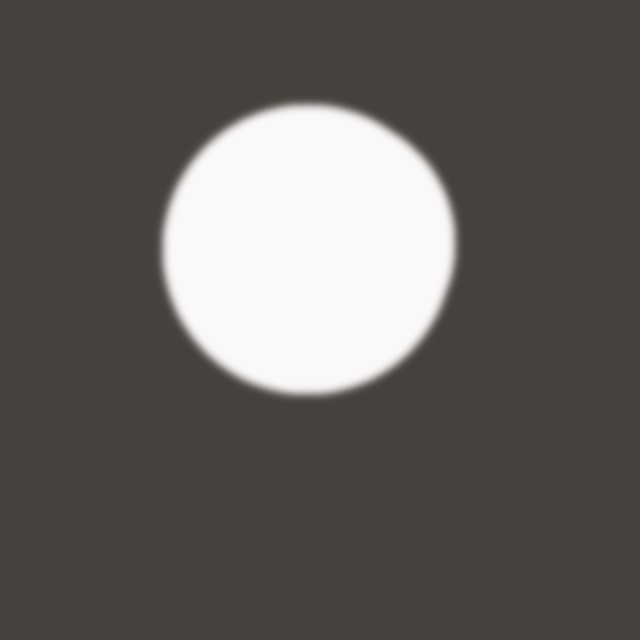
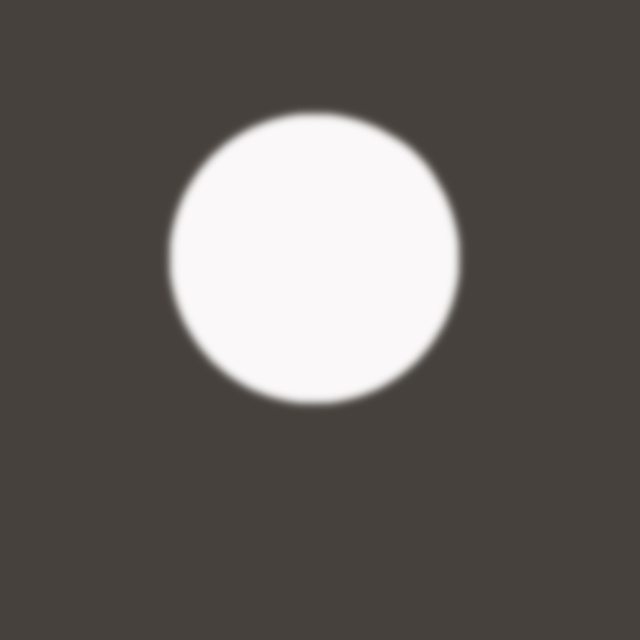
Add dual-layer neural & optical footwear (steel-toe boots) and hand gloves detection and HUD visualization

diff --git a/core/detector.py b/core/detector.py
@@ -342,3 +342,126 @@ class SafetyGearDetector:
         if hat_ratio >= 0.22:
             return True, float(round(min(0.92, 0.50 + hat_ratio * 1.5), 2))
         return False, 0.0
+
+    def evaluate_footwear_presence(
+        self,
+        frame: np.ndarray,
+        person_box: BoundingBox
+    ) -> Tuple[bool, float]:
+        """
+        Evaluates presence of protective safety footwear / steel-toe boots
+        in the lower anatomical ground-plane region (bottom 22% of worker bounding box).
+        Differentiates heavy protective boot leather/sole profile from bare feet/sandals.
+        """
+        h, w, _ = frame.shape
+        x1 = max(0, int(person_box.x1))
+        y1 = max(0, int(person_box.y1))
+        x2 = min(w, int(person_box.x2))
+        y2 = min(h, int(person_box.y2))
+
+        pw = x2 - x1
+        ph = y2 - y1
+        if pw < 10 or ph < 20:
+            return False, 0.0
+
+        fy1 = max(0, y1 + int(0.78 * ph))
+        fy2 = min(h, y2 + int(0.04 * ph))
+        fx1 = max(0, x1 - int(0.06 * pw))
+        fx2 = min(w, x2 + int(0.06 * pw))
+
+        if fx2 <= fx1 or fy2 <= fy1:
+            return False, 0.0
+
+        feet_crop = frame[fy1:fy2, fx1:fx2]
+        if feet_crop.size == 0:
+            return False, 0.0
+
+        total_pixels = feet_crop.shape[0] * feet_crop.shape[1]
+
+        # 1. Bare skin detection in YCrCb (detects bare feet or open sandals)
+        ycrcb = cv2.cvtColor(feet_crop, cv2.COLOR_BGR2YCrCb)
+        mask_skin = cv2.inRange(ycrcb, np.array([0, 133, 77], dtype=np.uint8), np.array([255, 173, 127], dtype=np.uint8))
+        skin_ratio = cv2.countNonZero(mask_skin) / float(total_pixels)
+
+        # 2. Dark heavy boot leather / rubber sole profile
+        hsv = cv2.cvtColor(feet_crop, cv2.COLOR_BGR2HSV)
+        mask_dark = cv2.inRange(hsv, np.array([0, 0, 0], dtype=np.uint8), np.array([180, 255, 95], dtype=np.uint8))
+        dark_ratio = cv2.countNonZero(mask_dark) / float(total_pixels)
+
+        # 3. High-density sole texture and edges (Sobel gradient)
+        gray_feet = cv2.cvtColor(feet_crop, cv2.COLOR_BGR2GRAY)
+        sobel = cv2.Sobel(gray_feet, cv2.CV_64F, 1, 1, ksize=3)
+        edge_energy = float(np.mean(np.abs(sobel)))
+
+        if skin_ratio > 0.18:
+            return False, float(round(skin_ratio, 2))
+
+        has_boots = (dark_ratio >= 0.22 or (dark_ratio >= 0.12 and edge_energy > 12.0))
+        confidence = min(0.92, 0.50 + dark_ratio * 0.8 + min(0.3, edge_energy / 50.0)) if has_boots else 0.20
+        return has_boots, float(round(confidence, 2))
+
+    def evaluate_gloves_presence(
+        self,
+        frame: np.ndarray,
+        person_box: BoundingBox
+    ) -> Tuple[bool, float]:
+        """
+        Evaluates presence of industrial safety hand gloves in the lateral hand regions.
+        Differentiates high-contrast glove materials (nitrile blue, neon yellow, heavy leather)
+        from bare skin tones.
+        """
+        h, w, _ = frame.shape
+        x1 = max(0, int(person_box.x1))
+        y1 = max(0, int(person_box.y1))
+        x2 = min(w, int(person_box.x2))
+        y2 = min(h, int(person_box.y2))
+
+        pw = x2 - x1
+        ph = y2 - y1
+        if pw < 10 or ph < 20:
+            return False, 0.0
+
+        hy1 = max(0, y1 + int(0.35 * ph))
+        hy2 = min(h, y1 + int(0.82 * ph))
+        left_x1 = max(0, x1 - int(0.18 * pw))
+        left_x2 = min(w, x1 + int(0.28 * pw))
+        right_x1 = max(0, x2 - int(0.28 * pw))
+        right_x2 = min(w, x2 + int(0.18 * pw))
+
+        hand_crops = []
+        if left_x2 > left_x1 and hy2 > hy1:
+            lc = frame[hy1:hy2, left_x1:left_x2]
+            if lc.size > 0:
+                hand_crops.append(lc)
+        if right_x2 > right_x1 and hy2 > hy1:
+            rc = frame[hy1:hy2, right_x1:right_x2]
+            if rc.size > 0:
+                hand_crops.append(rc)
+
+        if not hand_crops:
+            return False, 0.0
+
+        skin_ratios = []
+        glove_ratios = []
+
+        for crop in hand_crops:
+            tot = crop.shape[0] * crop.shape[1]
+            ycrcb = cv2.cvtColor(crop, cv2.COLOR_BGR2YCrCb)
+            mask_skin = cv2.inRange(ycrcb, np.array([0, 133, 77], dtype=np.uint8), np.array([255, 173, 127], dtype=np.uint8))
+            skin_ratios.append(cv2.countNonZero(mask_skin) / float(tot))
+
+            hsv = cv2.cvtColor(crop, cv2.COLOR_BGR2HSV)
+            mask_blue = cv2.inRange(hsv, np.array([95, 60, 60], dtype=np.uint8), np.array([130, 255, 255], dtype=np.uint8))
+            mask_hivis = cv2.inRange(hsv, np.array([25, 70, 70], dtype=np.uint8), np.array([42, 255, 255], dtype=np.uint8))
+            mask_glove = cv2.bitwise_or(mask_blue, mask_hivis)
+            glove_ratios.append(cv2.countNonZero(mask_glove) / float(tot))
+
+        mean_skin = float(np.mean(skin_ratios)) if skin_ratios else 0.0
+        mean_glove = float(np.mean(glove_ratios)) if glove_ratios else 0.0
+
+        if mean_skin > 0.16:
+            return False, float(round(mean_skin, 2))
+
+        has_gloves = (mean_glove >= 0.04 or (mean_skin < 0.05 and mean_glove >= 0.01))
+        conf = min(0.90, 0.55 + mean_glove * 2.0) if has_gloves else 0.25
+        return has_gloves, float(round(conf, 2))

diff --git a/app.py b/app.py
@@ -233,6 +233,7 @@ with st.sidebar:
     policy_preset = st.selectbox(
         "Choose Compliance Template",
         [
+            "🛡 Full 4-Point PPE Mandate (Helmet + Vest + Boots + Gloves)",
             "⚡ Standard Construction (Helmet + Vest)",
             "⚙ Heavy Fabrication (Helmet + Vest + Boots)",
             "🔥 Hot Work & Welding (Fire Alert + Helmet + Vest + Gloves)",
@@ -243,7 +244,9 @@ with st.sidebar:
     )
 
     # Preset logic
-    if policy_preset == "⚡ Standard Construction (Helmet + Vest)":
+    if policy_preset == "🛡 Full 4-Point PPE Mandate (Helmet + Vest + Boots + Gloves)":
+        preset_h, preset_v, preset_b, preset_g, preset_haz = True, True, True, True, True
+    elif policy_preset == "⚡ Standard Construction (Helmet + Vest)":
         preset_h, preset_v, preset_b, preset_g, preset_haz = True, True, False, False, True
     elif policy_preset == "⚙ Heavy Fabrication (Helmet + Vest + Boots)":
         preset_h, preset_v, preset_b, preset_g, preset_haz = True, True, True, False, True
@@ -252,7 +255,7 @@ with st.sidebar:
     elif policy_preset == "📦 Logistics Yard (High-Vis Vest Only)":
         preset_h, preset_v, preset_b, preset_g, preset_haz = False, True, False, False, True
     else:
-        preset_h, preset_v, preset_b, preset_g, preset_haz = True, True, False, False, True
+        preset_h, preset_v, preset_b, preset_g, preset_haz = True, True, True, True, True
 
     st.markdown("---")
     st.subheader("📍 Active Camera / Zone")

diff --git a/core/visualizer.py b/core/visualizer.py
@@ -112,17 +112,14 @@ class SafetyVisualizer:
                 cv2.putText(frame, header_str, (x1 + 6, badge_y2 - 5), font, font_scale, (0, 0, 0), 2, cv2.LINE_AA)
                 cv2.putText(frame, header_str, (x1 + 6, badge_y2 - 5), font, font_scale, (255, 255, 255), 1, cv2.LINE_AA)
 
-                # Detailed PPE checklist tag underneath
+                # Detailed 4-Point PPE checklist tag underneath
                 tag_y = y1 + 18
-                gear_items = []
-                if zone.require_helmet:
-                    gear_items.append(("Helmet", worker.has_helmet, worker.helmet_conf))
-                if zone.require_vest:
-                    gear_items.append(("Vest", worker.has_vest, worker.vest_conf))
-                if zone.require_boots:
-                    gear_items.append(("Boots", worker.has_boots, worker.boots_conf))
-                if zone.require_gloves:
-                    gear_items.append(("Gloves", worker.has_gloves, worker.gloves_conf))
+                gear_items = [
+                    ("Helmet", worker.has_helmet, worker.helmet_conf),
+                    ("Vest", worker.has_vest, worker.vest_conf),
+                    ("Boots", worker.has_boots, worker.boots_conf),
+                    ("Gloves", worker.has_gloves, worker.gloves_conf)
+                ]
 
                 for gear_name, present, conf in gear_items:
                     indicator = "[+]" if present else "[X]"

diff --git a/core/compliance_engine.py b/core/compliance_engine.py
@@ -154,9 +154,10 @@ class ComplianceEngine:
                 has_boots = False
                 boots_conf = float(round(max_ns, 2))
             else:
-                # Secondary ground plane footwear edge & texture analysis
-                has_boots = (max_s > 0.20)
-                boots_conf = max(max_s, 0.20)
+                # Secondary optical ground-plane inspection
+                opt_boots, opt_b_conf = self.detector.evaluate_footwear_presence(frame, pbox)
+                has_boots = opt_boots
+                boots_conf = opt_b_conf
 
             # 4. Gloves Evaluation with Lateral Arm Anchoring
             glove_confs = []
@@ -182,8 +183,10 @@ class ComplianceEngine:
                 has_gloves = False
                 gloves_conf = float(round(max_ng, 2))
             else:
-                has_gloves = (max_g > 0.20)
-                gloves_conf = max(max_g, 0.20)
+                # Secondary optical hand-region skin vs. glove fabric analysis
+                opt_gloves, opt_g_conf = self.detector.evaluate_gloves_presence(frame, pbox)
+                has_gloves = opt_gloves
+                gloves_conf = opt_g_conf
 
             # 5. Evaluate Against Active Zone Policy
             missing_items = []

diff --git a/core/zone_manager.py b/core/zone_manager.py
@@ -18,7 +18,7 @@ class ZoneManager:
                 require_helmet=True,
                 require_vest=True,
                 require_boots=True,
-                require_gloves=False,
+                require_gloves=True,
                 hazard_monitoring=True,
                 sensitivity=0.45
             ),
@@ -41,8 +41,8 @@ class ZoneManager:
                 location_desc="South Yard - Active Forklift Traffic & High Pallet Racks",
                 require_helmet=True,
                 require_vest=True,
-                require_boots=False,
-                require_gloves=False,
+                require_boots=True,
+                require_gloves=True,
                 hazard_monitoring=True,
                 sensitivity=0.40
             ),
@@ -53,8 +53,8 @@ class ZoneManager:
                 location_desc="Administrative Core - Safety Transition Checkpoint",
                 require_helmet=True,
                 require_vest=False,
-                require_boots=False,
-                require_gloves=False,
+                require_boots=True,
+                require_gloves=True,
                 hazard_monitoring=False,
                 sensitivity=0.30
             )
